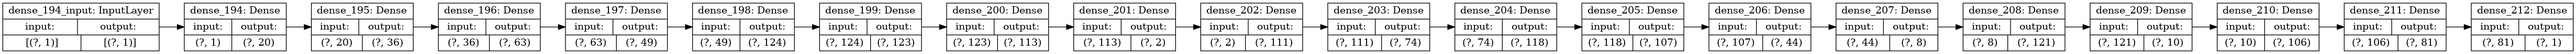
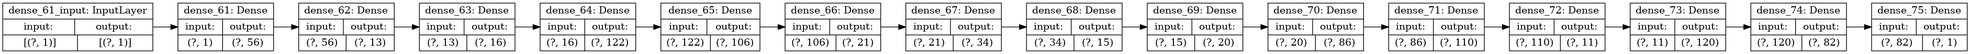
algo opt

diff --git a/backend/nnb.py b/backend/nnb.py
@@ -1,22 +1,11 @@
-import copy
-import random
-import time
-
 from sklearn.metrics import mean_squared_error
-from sklearn.preprocessing import MinMaxScaler
 from tensorflow.python.keras import Sequential
 from tensorflow.python.keras.layers import Dense
 
-from backend.ModelEditor import *
-from backend.Tooling import *
-
-
-def get_millis(t):
-    return t * 1000
-
-
-def get_time():
-    return int(round(get_millis(time.time())))
+from backend.data_preprocessing import *
+from backend.model_editing import *
+from backend.neural_network_config import *
+from backend.tools import *
 
 
 def acceptance_probability(cost, new_cost, temp):
@@ -37,7 +26,6 @@ def get_random_model_scheme(up_lim=25, bottom_lim=1):
         acts.append(get_activation_random())
         neurs.append(get_random_neurons())
     return neurs, acts
-
 
 
 def create_model(neurons_quantity_list, activations_list, krnl='he_uniform', in_dim=1, out_dim=1):
@@ -61,21 +49,6 @@ def create_model(neurons_quantity_list, activations_list, krnl='he_uniform', in_
     return model
 
 
-def preprocess_data(args):
-    x, y = get_data(args)
-    x, y = reshape(x, y)
-    scale_x, scale_y = scale_data()
-    x, y = fit_trans(x, y, scale_x, scale_y)
-    return x, y, scale_x, scale_y
-
-
-def predict_y(model, x, y, scale_x, scale_y):
-    yhat = model.predict(x)
-    x_plot, y_plot = inv_trans(x, y, scale_x, scale_y)
-    yhat_plot = scale_y.inverse_transform(yhat)
-    return yhat_plot, x_plot, y_plot
-
-
 class NeuralNetworkDesigner:
     def __init__(self, all_neurons, all_activations, linspace, expression, epochs=300, initial_temperature=1000,
                  scale=0.8):
@@ -93,7 +66,13 @@ class NeuralNetworkDesigner:
         model.compile(loss='mse', optimizer='adam')
         model.fit(x, y, epochs=self.epochs, batch_size=10, verbose=0)
 
-    def simulated_annealing(self, t, args, save_structure=True, graph=True, resets=True):
+    def predict_y(self, model):
+        yhat = model.predict(self.x)
+        x_plot, y_plot = inv_trans(self.x, self.y, self.scale_x, self.scale_y)
+        yhat_plot = self.scale_y.inverse_transform(yhat)
+        return yhat_plot, x_plot, y_plot
+
+    def simulated_annealing(self, t, args, save_structure=True, graph=True, resets=True, step_limit=300000):
         end_time = get_time() + get_millis(t)
         T = self.initial_temperature
         scale = self.scale
@@ -101,7 +80,7 @@ class NeuralNetworkDesigner:
         neurs, acts = copy.deepcopy(self.layers_neurons), copy.deepcopy(self.layers_activations)
         model = create_model(neurs, acts)
         self.model_prepare(model, self.x, self.y)
-        yhat_plot, x_plot, y_plot = predict_y(model, self.x, self.y, self.scale_x, self.scale_y)
+        yhat_plot, x_plot, y_plot = self.predict_y(model)
         mse = mean_squared_error(y_plot, yhat_plot)
 
         plot_png_network(model)
@@ -110,19 +89,23 @@ class NeuralNetworkDesigner:
         best_mse = mse
         best_model = model
         best_yhat = yhat_plot
+        step = 0
         while get_time() <= end_time and T > 0:
             T *= scale
-            neurs, acts = random_mutation(acts, neurs)
+
+            neurs, acts = get_random_model_scheme() if resets and step % step_limit else random_mutation(acts, neurs)
             new_model = create_model(neurs, acts)
             self.model_prepare(new_model, self.x, self.y)
-            yhat_plot, x_plot, y_plot = predict_y(new_model, self.x, self.y, self.scale_x, self.scale_y)
+            yhat_plot, x_plot, y_plot = self.predict_y(new_model)
             mse = mean_squared_error(y_plot, yhat_plot)
+
             if acceptance_probability(best_mse, mse, T) > random.uniform(0, 1):
                 best_mse = mse
                 print(best_mse)
                 best_yhat = yhat_plot
                 draw_graph(x_plot, y_plot, yhat_plot, best_mse)
                 best_model = new_model
+            step += 1
         if save_structure:
             plot_png_network(best_model)
         if graph:

diff --git a/backend/tools.py b/backend/tools.py
@@ -1,6 +1,17 @@
-from matplotlib import pyplot
+import time
+
 import numpy as np
+from matplotlib import pyplot
 from tensorflow.keras.utils import plot_model
+
+
+def get_millis(t):
+    return t * 1000
+
+
+def get_time():
+    return int(round(get_millis(time.time())))
+
 
 def plot_png_network(model):
     plot_model(
@@ -50,10 +61,3 @@ def get_data_direct(space, expr):
     lin = [int(x) for x in space[1:-1].split(',')]
     x = np.linspace(*lin)
     return x, eval(expr)
-
-def preprocess_data(args):
-    x, y = get_data(args)
-    x, y = reshape(x, y)
-    scale_x, scale_y = scale_data()
-    x, y = fit_trans(x, y, scale_x, scale_y)
-    return x, y, scale_x, scale_y

diff --git a/backend/Tests.py b/backend/Tests.py
@@ -1,5 +1,5 @@
 from backend.nnb import *
-from backend.Tooling import *
+from backend.tools import *
 import argparse
 
 def main():
@@ -10,7 +10,7 @@ def main():
     arp.add_argument('--linspace', type=str)
     arp.add_argument('-plot', action='store_true')
     p = arp.parse_args()
-    nnb.simulated_annealing(35, p)
+    res = nnb.simulated_annealing(35, p)
 
 
 main()

diff --git a/backend/data_preprocessing.py b/backend/data_preprocessing.py
@@ -42,3 +42,10 @@ def inv_trans(x, y, scale_x, scale_y):
     :return:
     """
     return scale_x.inverse_transform(x), scale_y.inverse_transform(y)
+
+def preprocess_data(args,func):
+    x, y = func(args)
+    x, y = reshape(x, y)
+    scale_x, scale_y = scale_data()
+    x, y = fit_trans(x, y, scale_x, scale_y)
+    return x, y, scale_x, scale_y

diff --git a/backend/model_editing.py b/backend/model_editing.py
@@ -1,5 +1,8 @@
-import random
+import copy
+
 from backend.neural_network_config import *
+
+
 def mutate_layer_neurons(neurs):
     """
     Mutation by changing quantity of neurons in random layer
